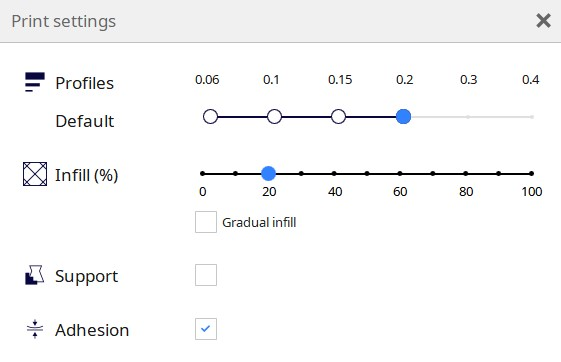
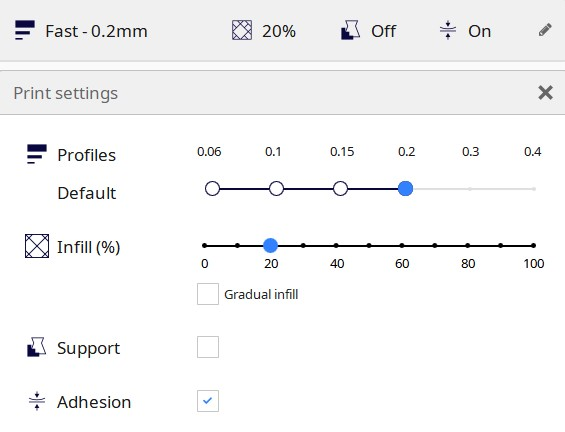
Links added

diff --git a/EV5.html b/EV5.html
@@ -7,6 +7,7 @@
 <html>
 	<head>
 		<title>Project 5</title>
+        <link rel="icon" href="Icon.png">
 		<meta charset="utf-8" />
 		<meta name="viewport" content="width=device-width, initial-scale=1, user-scalable=no" />
 		<link rel="stylesheet" href="assets/css/main.css" />
@@ -46,7 +47,6 @@
                                         <li><a href="EV3.html">P3 - 3d printing and scanning</a></li>
                                         <li><a href="EV4.html">P4 - CNC milling</a></li>
                                         <li><a href="EV5.html">P5 - CNC milling and preparing a mold</a></li>
-                                        <li><a href="EV6.html">P6 - Summary and presentation</a></li>
 									</ul>
 							</ul>
 						</nav>
@@ -58,7 +58,7 @@
 						<article id="main" class="special">
 							<p>
 								<p>
-                                    The project consists of designing, drawing, preparing and milling a mold. This project is a group project, the group consists of three people. Me, Davíð Rúnar and Elísa Ósk. My contribution to the project was the design and drawing of the object. Here below the documentation of my contribution can be seen. 
+                                    The project consists of designing, drawing, preparing and milling a large object. This project is a group project and the group consists of three people me, Davíð Rúnar and Elísa Ósk. A website containing the projects summary can be accessesed <a href="https://elisaosk.github.io/VefsidanMin/H5.html">here</a>. My contribution to the project was the design and drawing of the board. Davíð created the mould, his contribution can be seen <a href="https://davidrunar.github.io/vefsidanmin/verkefni5.html">here</a>. Elísa created the toolpaths and a simulation of the toolpaths, her contribution can be seen <a href="https://elisaosk.github.io/VefsidanMin/V5.html">here</a>.
                             <section>
                                 <header>
 									<h2>Design a large object to CNC mill</h2>
@@ -88,7 +88,7 @@
                                     The group decided to make a ice cube mould, with icecubes shaped lika a snowflake. The ice cube mould should be able to create 15 cubes. This idea was inspired by a picture found online.  This design was inspired by a picture found online. The picture can be seen <a href="https://www.pinterest.fr/pin/528680443728121036/">here</a>. 
                                 </p>
                                 <p>
-                                    The video <a href="https://www.youtube.com/watch?v=vKZx9eHEL6o&t=650s">How to Create a Two-Part Mold in Fusion 360 - Learn Autodesk Fusion 360 in 30 Days: Day #21</a> explains in detail how to create a mould for a object in Fusion. The first step is to create the object and then the mould is created. My contribution to the project was the design and drawing of the ice Cube tray. Before I started drawing I watched the video <a href="https://www.youtube.com/watch?v=M9LCCwP0tTg">How to 3D Model an Ice Cube Tray - Learn Autodesk Fusion 360 in 30 Days: Day #5</a>
+                                    The video <a href="https://www.youtube.com/watch?v=vKZx9eHEL6o&t=650s">How to Create a Two-Part Mold in Fusion 360 - Learn Autodesk Fusion 360 in 30 Days: Day #21</a> explains in detail how to create a mould for a object in Fusion. The first step is to create the object and then the mould is created. My contribution to the project was the design and drawing of the ice cube tray. Before I started drawing I watched the video <a href="https://www.youtube.com/watch?v=M9LCCwP0tTg">How to 3D Model an Ice Cube Tray - Learn Autodesk Fusion 360 in 30 Days: Day #5</a>. The video shows how to creata a simple icecube tray for square ice cubes. I created the snowflake ice cube tray in a similar way.
                                 </p>
                                 <p>
                                     I started by drawing a box that the mould will be created from. I choose the size 300x200mm. Then fillet is used to round the corners.
@@ -122,14 +122,14 @@
                                     <img src="images/v5_form_15stk.jpg" width = 400> 
                                 </p>
                                 <p>
-                                    I had some trouble using shell with so many snowflakes so I had to remove some from the mould. My computer would crash every time I tried to use shell. In the end it was 6 snowflakes(2x3) and then the command shell is used. I chose wall thickness 3mm and the result can be seen here below.
+                                    I had some trouble using shell with so many snowflakes so I had to remove some from the mould. My computer would crash every time I tried to use shell. In the end the mould contained 6 snowflakes(2x3) and then the command shell is used. I chose wall thickness 3mm and the result can be seen here below.
 .                                </p>
                                 <p>
                                     <img src="images/v5_plata_shell1.jpg" width = 400> 
                                     <img src="images/v5_plata_shell2.jpg" width = 400>  
                                 </p>
                                 <p>
-                                    Using fillet the edges of the mould are rounded and the final prodect can be seen here below.
+                                    Using fillet the edges of the mould are rounded and the final product can be seen here below.
                                 </p>
                                 <p>
                                     <img src="images/v5_plata_loka.jpg" width = 400> 
@@ -141,16 +141,10 @@
 									<h3>Result</h3>
 								</header>
                                 <p>
-                                    The mould for the ice cube mould can be seen here below
+                                    I changed the material of the mould as well as color. The final result can be seen here below.
                                 </p>
                                 <p>
-                                    
-                                </p>
-                                <p>
-                                    
-                                </p>
-                                <p>
-                                    
+                                    <img src="images/v5_loka.jpg" width = 800> 
                                 </p>
                                 <p>
                                 
@@ -166,7 +160,7 @@
                                       </tr>
                                       <tr>
                                         <td>Choosing a project and team responsibility</td>
-                                        <td> hour</td>
+                                        <td>1 hour</td>
                                       </tr>
                                       <tr>
                                         <td>Measurements and determining design parmeters</td>
@@ -178,7 +172,11 @@
                                       </tr>
                                       <tr>
                                         <td>Drawing</td>
-                                        <td>4 hours</td>
+                                        <td>3 hours</td>
+                                      </tr>
+                                      <tr>
+                                        <td>Updating group website</td>
+                                        <td>1 hours</td>
                                       </tr>
                                       <tr>
                                         <td>Updating website</td>
@@ -186,7 +184,7 @@
                                       </tr>
                                       <tr>
                                         <td><strong>Total</strong></td>
-                                        <td><strong>11 hour</strong></td>
+                                        <td><strong>10 hour</strong></td>
                                       </tr>
                                     </table>
 								<header>

diff --git a/EV3.html b/EV3.html
@@ -7,6 +7,7 @@
 <html>
 	<head>
 		<title>Project 3</title>
+        <link rel="icon" href="Icon.png">
 		<meta charset="utf-8" />
 		<meta name="viewport" content="width=device-width, initial-scale=1, user-scalable=no" />
 		<link rel="stylesheet" href="assets/css/main.css" />
@@ -46,7 +47,6 @@
                                         <li><a href="EV3.html">P3 - 3d printing and scanning</a></li>
                                         <li><a href="EV4.html">P4 - CNC milling</a></li>
                                         <li><a href="EV5.html">P5 - CNC milling and preparing a mold</a></li>
-                                        <li><a href="EV6.html">P6 - Summary and presentation</a></li>
 									</ul>
 							</ul>
 						</nav>
@@ -59,7 +59,7 @@
 							<p>
 							<section>
 								<p>
-                                    This project consists of two parts, an individial assignment and a group assignment. The individual assignment was to design an object that could not be manufactured by subtraction. Then this object should be 3d printed at Fablab. Some constrains were applied such as that the material provided in the course is a maximum of 100g. In addition I had to 3d scan an object of my choosing and document the process. Description of this part can be found her below. The second part is a group project and the goal was to test the limits of the 3d printer and make rules regarding its use, this part can be accessed <a href="https://elisaosk.github.io/VefsidanMin/H2.html">here</a>.
+                                    This project consists of two parts, an individial assignment and a group assignment. The individual assignment was to design an object that could not be manufactured by subtraction. Then this object should be 3d printed at Fablab. Some constrains were applied such as that the material provided in the course is a maximum of 100g. In addition I had to 3d scan an object of my choosing and document the process. Description of this part can be found here below. The second part is a group project and the goal was to test the limits of the 3d printer and make rules regarding its use, this part can be accessed <a href="https://elisaosk.github.io/VefsidanMin/H2.html">here</a>.
                                 </p>
                                 
 								<header>
@@ -146,7 +146,14 @@
                                     <img src="images/v3_mynstur.jpg" width = 500>
                                 </p>
                                 <p>
-                                    I was very happy with this result and exported the file in stl format. This file can be opened in Cura and I chose the printer Ultimaker 3. This is the printer I will be using at Fablab. After slicing the object Cura showed that printing this object would take 8 hours and 16 minutes. 
+                                    I was very happy with this result and exported the file in stl format. This file can be opened in Cura and I chose the printer Ultimaker 3. This is the printer I will be using at Fablab. 
+                                    I choose the setting Fast and infill 20%. This is the same setting that was used in the group project.
+                                </p>
+                                <p>
+                                    <img src="images/v3_cura_stillingar.jpg" width="500"> 
+                                </p>
+                                <p>
+                                    After slicing the object Cura showed that printing this object would take 8 hours and 16 minutes. 
                                 </p>
                                 <p>
                                     <img src="images/v3_vasi_cura.jpg" width="500"> 
@@ -170,13 +177,7 @@
                                     <img src="images/v3_loka.jpg" width="500">
                                 </p>
                                 <p>
-                                    Then the file is exported and opened in Cura. The setting I chose can be seen here below.
-                                </p>
-                                <p>
-                                    <img src="images/v3_cura_stillingar.jpg" width="500">
-                                </p>
-                                <p>
-                                    Cura shows that printing the vase will take 5 hours and 2 minutes.
+                                    Then the file is exported and opened in Cura. I choose the same setting as before, Fast and infill 20%. Cura shows that printing the vase will take 5 hours and 2 minutes.
                                 </p>
                                 <p>
                                     <img src="images/v3_vasi_cura1.jpg" width="500">

diff --git a/EV4.html b/EV4.html
@@ -7,6 +7,7 @@
 <html>
 	<head>
 		<title>Project 4</title>
+        <link rel="icon" href="Icon.png">
 		<meta charset="utf-8" />
 		<meta name="viewport" content="width=device-width, initial-scale=1, user-scalable=no" />
 		<link rel="stylesheet" href="assets/css/main.css" />
@@ -46,7 +47,6 @@
                                         <li><a href="EV3.html">P3 - 3d printing and scanning</a></li>
                                         <li><a href="EV4.html">P4 - CNC milling</a></li>
                                         <li><a href="EV5.html">P5 - CNC milling and preparing a mold</a></li>
-                                        <li><a href="EV6.html">P6 - Summary and presentation</a></li>
 									</ul>
 							</ul>
 						</nav>
@@ -58,7 +58,7 @@
 						<article id="main" class="special">
 							<p>
 								<p>
-                                    The project consists of designing, drawing, preparing and milling a large object. This project is a group project, the group consists of three people. Me, Davíð Rúnar and Elísa Ósk. My contribution to the project was the design and drawing of the board. Here below the documentation of my contribution can be seen. 
+                                    The project consists of designing, drawing, preparing and milling a large object. This project is a group project and the group consists of three people me, Davíð Rúnar and Elísa Ósk. A website containing the projects summary can be accessesed <a href="https://elisaosk.github.io/VefsidanMin/H4.html">here</a>. My contribution to the project was the design and drawing of the board. Davíð prepared the files for production using Vcarve, his contribution can be seen <a href="https://davidrunar.github.io/vefsidanmin/verkefni4.html">here</a>. Elísa was in charge of manifacturing and safety, her contribution can be seen <a href="https://elisaosk.github.io/VefsidanMin/V4.html">here</a>. Here below the documentation of my contribution can be seen. 
                             <section>
                                 <header>
 									<h2>Design a large object to CNC mill</h2>
@@ -86,6 +86,9 @@
 								</header>
                                 <p>
                                     The group decided to make a large cutting board shaped lika a puzzle. So the board consists of multiple puzzle pieces. This design was inspired by a picture found online. The picture can be seen <a href="https://cdn.trendhunterstatic.com/phpthumbnails/54/54870/54870_1_800.jpeg?fbclid=IwAR3PWvDzszRfiowyNjyeDppnvXY55pTLEv7NsrYBWsrPLAP0BG0LjI7Kw6Y">here</a>. 
+                                </p>
+                                <p>
+                                    <img src="images/V4_mynd.jpeg" width = 400> 
                                 </p>
                                 <p>
                                     My contribution to the project was the design and drawing of the board. I decided to design a rather large board, 420x260mm. Because of the size of the cutting board the group can manifacture 2 boards and every member of the group can own one. I decided that each puzzle piece should be unique. By using spline the connections are unique and look nice
@@ -116,7 +119,7 @@
 									<h3>Result</h3>
 								</header>
                                 <p>
-                                    When the pieces had been cut we saw that the edges were quiet rough and the pieces didi not fit very well together. To refine the edges I used sandpaper and then applied some wood oil to the board.
+                                    When the pieces had been cut we saw that the edges were quiet rough and the pieces did not fit very well together. To refine the edges I used sandpaper and then applied some wood oil to the board. The final result can be seen here below.
                                 </p>
                                 <p>
                                     <img src="images/v4_loka.jpg" width = 400>

diff --git a/EV1.html b/EV1.html
@@ -7,6 +7,7 @@
 <html>
 	<head>
 		<title>Project 1</title>
+        <link rel="icon" href="Icon.png">
 		<meta charset="utf-8" />
 		<meta name="viewport" content="width=device-width, initial-scale=1, user-scalable=no" />
 		<link rel="stylesheet" href="assets/css/main.css" />
@@ -40,7 +41,6 @@
                                         <li><a href="EV3.html">P3 - 3d printing and scanning</a></li>
                                         <li><a href="EV4.html">P4 - CNC milling</a></li>
                                         <li><a href="EV5.html">P5 - CNC milling and preparing a mold</a></li>
-                                        <li><a href="EV6.html">P6 - Summary and presentation</a></li>
 									</ul>
 							</ul>
 						</nav>
@@ -52,7 +52,7 @@
 						<article id="main" class="special">
 							<p>
 								<p>
-                                    In this project the objective is to either choose or make a HTML template for a website. Organize the website and put information from your resume. Record the first project and upload it to Github using Git bash.
+                                    In this project the objective is to either choose or make a HTML template for a website. Organize the website and put information from your resume. Record the first project and upload it to Github using Git bash. My github repository can be accessed <a href="https://github.com/BirtaH/Website-VEL403G">here</a>.
 							<section>
 								<header>
 									<h3>Preparation</h3>

diff --git a/EV2.html b/EV2.html
@@ -7,6 +7,7 @@
 <html>
 	<head>
 		<title>Project 2</title>
+        <link rel="icon" href="Icon.png">
 		<meta charset="utf-8" />
 		<meta name="viewport" content="width=device-width, initial-scale=1, user-scalable=no" />
 		<link rel="stylesheet" href="assets/css/main.css" />
@@ -46,7 +47,6 @@
                                         <li><a href="EV3.html">P3 - 3d printing and scanning</a></li>
                                         <li><a href="EV4.html">P4 - CNC milling</a></li>
                                         <li><a href="EV5.html">P5 - CNC milling and preparing a mold</a></li>
-                                        <li><a href="EV6.html">P6 - Summary and presentation</a></li>
 									</ul>
 							</ul>
 						</nav>

diff --git a/VEL403G.html b/VEL403G.html
@@ -7,6 +7,7 @@
 <html>
 	<head>
 		<title>Projects</title>
+        <link rel="icon" href="Icon.png">
 		<meta charset="utf-8" />
 		<meta name="viewport" content="width=device-width, initial-scale=1, user-scalable=no" />
 		<link rel="stylesheet" href="assets/css/main.css" />
@@ -40,7 +41,6 @@
                                         <li><a href="EV3.html">P3 - 3d printing and scanning</a></li>
                                         <li><a href="EV4.html">P4 - CNC milling</a></li>
                                         <li><a href="EV5.html">P5 - CNC milling and preparing a mold</a></li>
-                                        <li><a href="EV6.html">P6 - Summary and presentation</a></li>
 									</ul>
 							</ul>
 						</nav>

diff --git a/Resume.html b/Resume.html
@@ -7,6 +7,7 @@
 <html>
 	<head>
 		<title>Resume</title>
+        <link rel="icon" href="Icon.png">
 		<meta charset="utf-8" />
 		<meta name="viewport" content="width=device-width, initial-scale=1, user-scalable=no" />
 		<link rel="stylesheet" href="assets/css/main.css" />
@@ -41,7 +42,6 @@
                                         <li><a href="EV3.html">P3 - 3d printing and scanning</a></li>
                                         <li><a href="EV4.html">P4 - CNC milling</a></li>
                                         <li><a href="EV5.html">P5 - CNC milling and preparing a mold</a></li>
-                                        <li><a href="EV6.html">P6 - Summary and presentation</a></li>
 									</ul>
 							</ul>
 						</nav>

diff --git a/index.html b/index.html
@@ -7,6 +7,7 @@
 <html>
 	<head>
 		<title>Home</title>
+        <link rel="icon" href="Icon.png">
 		<meta charset="utf-8" />
 		<meta name="viewport" content="width=device-width, initial-scale=1, user-scalable=no" />
 		<link rel="stylesheet" href="assets/css/main.css" />
@@ -42,7 +43,6 @@
                                         <li><a href="EV3.html">P3 - 3d printing and scanning</a></li>
                                         <li><a href="EV4.html">P4 - CNC milling</a></li>
                                         <li><a href="EV5.html">P5 - CNC milling and preparing a mold</a></li>
-                                        <li><a href="EV6.html">P6 - Summary and presentation</a></li>
 									</ul>
 							</ul>
 						</nav>
